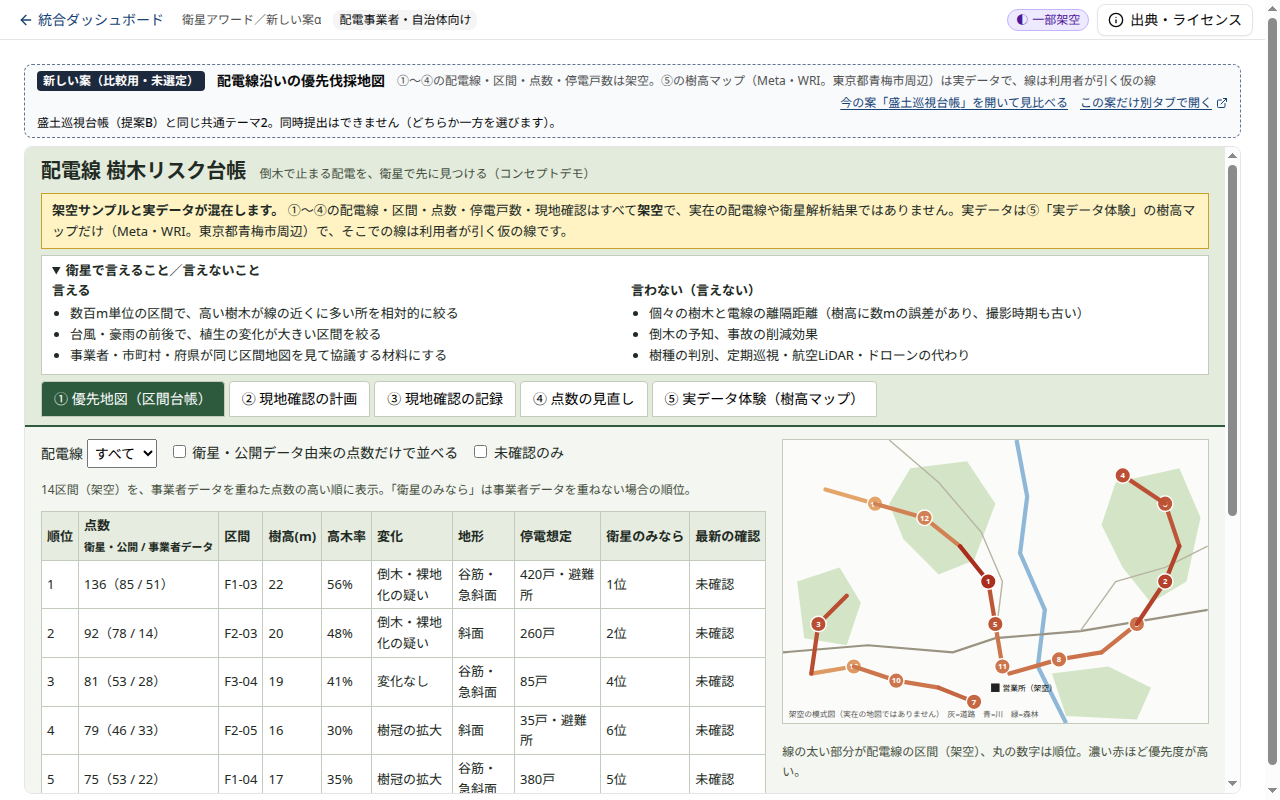
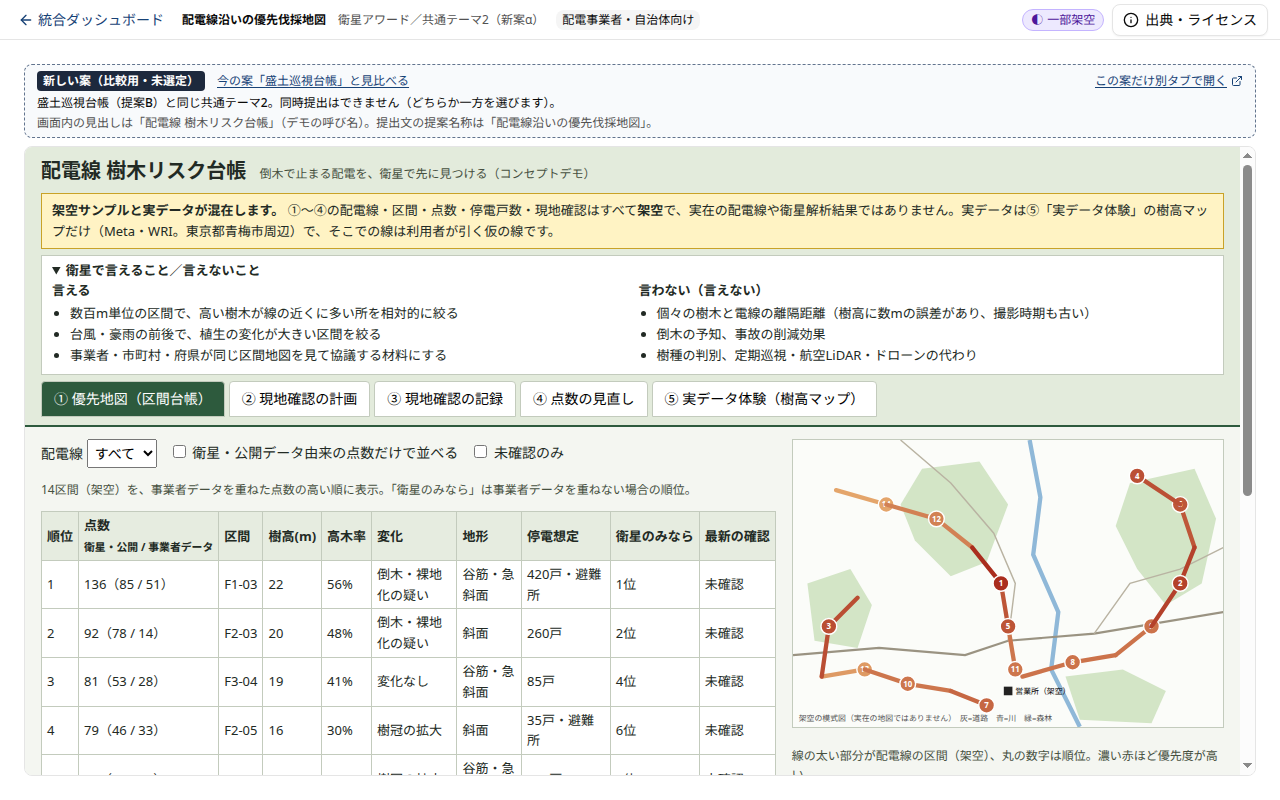
工兵: ダッシュボードのデザイン審査指摘 M1〜M6・L1〜L3・L6 に対応（定時性カルテの状態の明記、IN1の題名と提出文リンク、双方向の見比べリンク、帯の整理、スマホの入れ子スクロール解消、新しい案の件数表示）

diff --git a/contests/dashboard/src/pages/Overview.tsx b/contests/dashboard/src/pages/Overview.tsx
@@ -7,6 +7,7 @@ import { Card, CardContent, CardDescription, CardFooter, CardHeader, CardTitle }
 import { Tabs, TabsContent, TabsList, TabsTrigger } from '@/components/ui/tabs'
 import { DataBadge } from '@/components/shared/DataBadge'
 import { APPS, CARDS_ONLY, CONTESTS, NEW_PLAN_LABEL, appsByContest, getApp, isNewPlan, type AppMeta, type CardOnly, type ContestId } from '@/apps/registry'
+import { siteRoot } from '@/lib/data'
 import { CONTEST_INFO, remainingText, type ContestInfo } from '@/apps/contests-info'
 import { AppScoreLine, EvalSummary, MOCK_NOTICE, ROUND_NOTICE } from '@/pages/EvalPanels'
 import { LATEST } from '@/apps/eval-results'
@@ -52,7 +53,7 @@ function CardOnlyCard({ c }: { c: CardOnly }) {
           <NewPlanTag />
           <span className="rounded border border-slate-500 px-1.5 py-0.5 text-xs font-bold">デモなし</span>
         </div>
-        <CardTitle className="text-base leading-tight">{c.name}</CardTitle>
+        <CardTitle className="text-base leading-tight" data-testid={`card-only-title-${c.id}`}>{c.name}</CardTitle>
         <CardDescription className="text-xs">
           {contest?.short}／{c.division}
         </CardDescription>
@@ -60,6 +61,22 @@ function CardOnlyCard({ c }: { c: CardOnly }) {
       <CardContent className="flex-1 px-4 text-xs">
         <p data-testid={`card-only-note-${c.id}`}>{c.note}</p>
       </CardContent>
+      <CardFooter className="flex-wrap gap-x-4 gap-y-1 px-4 text-xs">
+        {c.docs.map((d) => (
+          <a
+            key={d.path}
+            href={`${siteRoot()}${d.path}`}
+            target="_blank"
+            rel="noreferrer"
+            className="inline-flex items-center gap-1 font-medium text-primary underline underline-offset-2"
+            data-testid={`card-only-doc-${c.id}`}
+          >
+            {d.label}
+            <ExternalLink className="size-3" aria-hidden />
+            <span className="sr-only">（新しいタブで開く）</span>
+          </a>
+        ))}
+      </CardFooter>
     </Card>
   )
 }
@@ -95,6 +112,11 @@ function AppCard({ a, contestId, note, onOpenEval, paired }: { a: AppMeta; conte
         {isNew && a.pairNote && (
           <p className="mt-1.5 border-l-2 border-slate-500 pl-2 font-medium" data-testid={`pair-note-${a.id}`}>
             {a.pairNote}
+          </p>
+        )}
+        {isNew && a.stateNote && (
+          <p className="mt-1.5 border-l-2 border-slate-500 pl-2 font-medium" data-testid={`state-note-${a.id}`}>
+            いまの状態: {a.stateNote}
           </p>
         )}
         {isNew && (
@@ -166,11 +188,16 @@ function ContestPanel({ info, onOpenEval }: { info: ContestInfo; onOpenEval: () 
   const current = apps.filter((a) => !isNewPlan(a))
   const newCount = apps.length - current.length + CARDS_ONLY.filter((c) => c.contest === info.id).length
   // 今の案ごとに、その隣に新しい案を並べる（同じ大会・部門の中で比べる）
-  const groups = current.map((a) => ({
-    head: a,
-    news: apps.filter((x) => isNewPlan(x) && x.pairWith === a.id),
-    cards: CARDS_ONLY.filter((c) => c.contest === info.id && c.pairWith === a.id),
-  }))
+  // 組のある群を先に並べる（第一画面に、今の案と新しい案の組が入るように）
+  const groups = current
+    .map((a) => ({
+      head: a,
+      news: apps.filter((x) => isNewPlan(x) && x.pairWith === a.id),
+      cards: CARDS_ONLY.filter((c) => c.contest === info.id && c.pairWith === a.id),
+    }))
+    .sort((x, y) => Number(y.news.length + y.cards.length > 0) - Number(x.news.length + x.cards.length > 0))
+  // 新しい案があるコンペでは、今の案すべてに「今の案」の札を付ける
+  const hasNew = newCount > 0
   return (
     <div className="space-y-3">
       <div className="grid items-start gap-3 lg:grid-cols-[3fr_2fr] lg:grid-rows-[auto_1fr]">
@@ -239,13 +266,20 @@ function ContestPanel({ info, onOpenEval }: { info: ContestInfo; onOpenEval: () 
             </span>
           </h3>
           {groups.map((g) => (
-            <div key={g.head.id} className="grid gap-3 sm:grid-cols-2" data-testid={`group-${g.head.id}`}>
-              {[g.head, ...g.news].map((a) => (
-                <AppCard key={a.id} a={a} contestId={info.id} note={info.appNotes?.[a.id]} onOpenEval={onOpenEval} paired={g.news.length + g.cards.length > 0} />
-              ))}
-              {g.cards.map((c) => (
-                <CardOnlyCard key={c.id} c={c} />
-              ))}
+            <div key={g.head.id} className={hasNew && groups.length > 1 ? 'space-y-1 pt-2' : ''} data-testid={`group-${g.head.id}`}>
+              {hasNew && groups.length > 1 && (
+                <h4 className="text-xs font-bold text-muted-foreground" data-testid={`group-title-${g.head.id}`}>
+                  {g.head.division}
+                </h4>
+              )}
+              <div className="grid gap-3 sm:grid-cols-2">
+                {[g.head, ...g.news].map((a) => (
+                  <AppCard key={a.id} a={a} contestId={info.id} note={info.appNotes?.[a.id]} onOpenEval={onOpenEval} paired={hasNew} />
+                ))}
+                {g.cards.map((c) => (
+                  <CardOnlyCard key={c.id} c={c} />
+                ))}
+              </div>
             </div>
           ))}
           {info.alsoApps?.map((x) => {
@@ -339,7 +373,13 @@ export default function Overview() {
                       {d === nd && <Remaining at={d.at} />}
                     </span>
                   ))}
-                  <span className="hidden text-muted-foreground lg:inline">アプリ{appsByContest(info.id).filter((a) => !isNewPlan(a)).length}件</span>
+                  <span className="hidden text-muted-foreground lg:inline" data-testid={`tab-count-${info.id}`}>
+                    アプリ{appsByContest(info.id).filter((a) => !isNewPlan(a)).length}件
+                    {(() => {
+                      const n = appsByContest(info.id).filter(isNewPlan).length + CARDS_ONLY.filter((c) => c.contest === info.id).length
+                      return n > 0 ? `＋新しい案${n}件` : ''
+                    })()}
+                  </span>
                 </span>
               </TabsTrigger>
             )

diff --git a/contests/dashboard/src/apps/registry.ts b/contests/dashboard/src/apps/registry.ts
@@ -36,6 +36,10 @@ export interface AppMeta {
   pairNote?: string
   /** 元の静的版を iframe で開くアプリの、同梱コピーのフォルダ（public/embedded/<embed>/）。省略時は React 版 */
   embed?: string
+  /** 今の状態（データがまだ無い等）。新しい案のカードと帯に出す。数値は書かない */
+  stateNote?: string
+  /** 元の静的版の画面内の見出しが registry の name と違うときの、その見出し（帯に1行で添える） */
+  demoTitle?: string
 }
 
 /** 提出文のみで、デモを持たない案（ポータルに「カードだけ」置く。クリックできるデモはない） */
@@ -45,8 +49,10 @@ export interface CardOnly {
   contest: ContestId
   division: string
   pairWith: string
-  /** カードの本文（何がまだ無いか） */
+  /** カードの本文（何の案か・何がまだ無いか） */
   note: string
+  /** 提出文を読むリンク（サイトルートからの相対パス。copy-data が submission/ の md を .txt にして置く） */
+  docs: { label: string; path: string }[]
 }
 
 export const NEW_PLAN_LABEL = '新しい案（比較用・未選定）'
@@ -166,7 +172,8 @@ export const APPS: AppMeta[] = [
     audience: '配電事業者・自治体向け',
     name: '配電線沿いの優先伐採地図',
     contest: 'satellite-2026',
-    division: '新しい案α',
+    division: '共通テーマ2（新案α）',
+    demoTitle: '配電線 樹木リスク台帳',
     deadline: '2026/11/30 12:00',
     deadlineAt: '2026-11-30T12:00:00+09:00',
     purpose:
@@ -224,6 +231,8 @@ export const APPS: AppMeta[] = [
       'バスの位置データ（GTFS-RT）を時刻表と突き合わせ、どの路線の・どの時間帯の・どの区間で遅れるかを見える化し、ダイヤや運用の見直し材料にする。',
     dataKind: 'real',
     dataNote: '公共交通オープンデータセンターの実データ（CC BY 4.0）。収集の途中で、昼間の品質は未測定',
+    stateNote:
+      'いまはデータを貯め始めたところで、まだ遅れの集計はありません（開くと全事業者が「データ蓄積前」と表示されます）。昼間の収集を 11/13 の 11:00〜12:00 に予定していますが、結果は未確定です。',
     originalPath: 'contests/odpt-2026/app-teiji/web/',
   },
 ]
@@ -231,11 +240,15 @@ export const APPS: AppMeta[] = [
 export const CARDS_ONLY: CardOnly[] = [
   {
     id: 'biz-idea-in1',
-    name: 'IN1',
+    name: '「いま使えるAED」地図　夜間・施錠で使えない場所を、時間帯別のカバー率にする',
     contest: 'ichibiz-2026',
     division: 'アイデア部門（新案IN1）',
     pairWith: 'biz-idea',
-    note: '提出文のみ。デモは UDC の「夜間・休日に使えるAED地図」を使う予定（準備中）。',
+    note: 'AEDの地図は公開されていても、点は「いつ使えるか」を示さない。町田市の公開データでは、位置と利用時間が記入された288台のうち、平日午前3時に使えるのは14台（本案の簡易判定）。提出文のみで、デモは UDC の「夜間・休日に使えるAED地図」を使う予定（準備中）。',
+    docs: [
+      { label: '課題の文を読む', path: 'submission/idea-in1/problem.txt' },
+      { label: 'サービス内容の文を読む', path: 'submission/idea-in1/service.txt' },
+    ],
   },
 ]
 
@@ -267,3 +280,8 @@ export function isNewPlan(a: AppMeta): boolean {
 
 /** 今の案のアプリ（評価・既存テストの対象） */
 export const CURRENT_APPS: AppMeta[] = APPS.filter((a) => !isNewPlan(a))
+
+/** 今の案 id から、その隣に並ぶ新しい案を引く（今の案のヘッダーに「見比べる」リンクを出すため） */
+export function newPlansOf(currentId: string): AppMeta[] {
+  return APPS.filter((a) => isNewPlan(a) && a.pairWith === currentId)
+}

diff --git a/contests/dashboard/src/apps/embedded/EmbeddedApp.tsx b/contests/dashboard/src/apps/embedded/EmbeddedApp.tsx
@@ -15,7 +15,8 @@ export function EmbeddedApp({ appId }: { appId: string }) {
   const pair = app.pairWith ? getApp(app.pairWith) : undefined
   const src = `${siteRoot()}embedded/${app.embed}/index.html`
   return (
-    <div className="flex flex-col gap-2" data-testid="embedded-app">
+    // 高さ = 画面の高さ − 固定ヘッダー − main の余白。iframe が残りを埋め、ページ全体の縦スクロールを出さない（iframe の末尾が必ず画面内に入る）
+    <div className="flex h-[calc(100dvh-8.5rem)] flex-col gap-2 md:h-[calc(100dvh-5.5rem)]" data-testid="embedded-app">
       <PageHeader
         appId={appId}
         compact
@@ -30,30 +31,44 @@ export function EmbeddedApp({ appId }: { appId: string }) {
           />
         }
       />
-      <div className="flex flex-wrap items-center gap-x-3 gap-y-1 rounded-md border border-dashed border-slate-500 bg-slate-50 px-3 py-1.5 text-xs">
+      {/* 案の名前は上のヘッダー（スマホは名前、デスクトップは名前＋部門）に出す。帯は札とリンクと、比べるときの制約・今の状態だけ */}
+      <h1 className="sr-only">{app.name}</h1>
+      <div className="flex shrink-0 flex-wrap items-center gap-x-3 gap-y-1 rounded-md border border-dashed border-slate-500 bg-slate-50 px-3 py-1.5 text-xs">
         <span className="rounded bg-slate-800 px-1.5 py-0.5 font-bold text-white" data-testid="new-plan-badge">
           {NEW_PLAN_LABEL}
         </span>
-        <h1 className="text-sm font-bold">{app.name}</h1>
-        <span className="text-muted-foreground">{app.dataNote}</span>
-        <span className="ml-auto flex flex-wrap items-center gap-3">
-          {pair && (
-            <a href={appUrl(pair.id)} className="font-medium text-primary underline underline-offset-2">
-              今の案「{pair.name}」を開いて見比べる
-            </a>
-          )}
-          <a href={src} target="_blank" rel="noreferrer" className="inline-flex items-center gap-1 font-medium text-primary underline underline-offset-2">
-            この案だけ別タブで開く
-            <ExternalLink className="size-3" aria-hidden />
-            <span className="sr-only">（新しいタブで開く）</span>
+        {pair && (
+          <a href={appUrl(pair.id)} className="font-medium text-primary underline underline-offset-2" data-testid="pair-link">
+            今の案「{pair.name}」と見比べる
           </a>
-        </span>
+        )}
+        <a
+          href={src}
+          target="_blank"
+          rel="noreferrer"
+          className="ml-auto inline-flex items-center gap-1 font-medium text-primary underline underline-offset-2 max-sm:rounded-md max-sm:border max-sm:border-primary max-sm:px-2 max-sm:py-1"
+          data-testid="open-alone"
+        >
+          この案だけ別タブで開く
+          <ExternalLink className="size-3" aria-hidden />
+          <span className="sr-only">（新しいタブで開く）</span>
+        </a>
         {app.pairNote && <p className="basis-full font-medium">{app.pairNote}</p>}
+        {app.stateNote && (
+          <p className="basis-full font-medium" data-testid="band-state-note">
+            いまの状態: {app.stateNote}
+          </p>
+        )}
+        {app.demoTitle && (
+          <p className="basis-full text-muted-foreground" data-testid="band-demo-title">
+            画面内の見出しは「{app.demoTitle}」（デモの呼び名）。提出文の提案名称は「{app.name}」。
+          </p>
+        )}
       </div>
       <iframe
         title={`${app.name}（${NEW_PLAN_LABEL}）`}
         src={src}
-        className="h-[calc(100dvh-9.5rem)] min-h-[600px] w-full rounded-md border bg-white"
+        className="min-h-[420px] w-full flex-1 rounded-md border bg-white"
         data-testid="embedded-frame"
       />
     </div>

diff --git a/contests/dashboard/src/components/layout/StandaloneShell.tsx b/contests/dashboard/src/components/layout/StandaloneShell.tsx
@@ -4,8 +4,8 @@ import { TooltipProvider } from '@/components/ui/tooltip'
 import { Toaster } from '@/components/ui/sonner'
 import { AppStepsProvider, useRegisteredSteps } from '@/components/shared/AppSteps'
 import { HeaderSlotContext } from '@/components/shared/HeaderSlot'
-import { CONTESTS, getApp } from '@/apps/registry'
-import { portalUrl } from '@/lib/data'
+import { CONTESTS, getApp, newPlansOf } from '@/apps/registry'
+import { appUrl, portalUrl } from '@/lib/data'
 import { StepsSidebar, StepsTopbar } from './StepsPanel'
 import { SampleBar, sampleUrl } from './SampleBar'
 import { AppIdContext } from '@/components/shared/AppIdContext'
@@ -50,6 +50,7 @@ function ShellBody({ appId, children }: { appId: string; children: ReactNode }) 
             </a>
             <span className="min-w-0 flex-1 truncate text-xs font-semibold md:hidden">{app?.name}</span>
             <span className="hidden truncate text-xs text-muted-foreground md:inline">
+              {app?.embed && <span className="font-semibold text-foreground">{app.name}　</span>}
               {contest?.short}／{app?.division}
             </span>
             {app && <span className="hidden shrink-0 rounded-md bg-muted px-1.5 py-0.5 text-xs font-medium sm:inline">{app.audience}</span>}
@@ -62,6 +63,16 @@ function ShellBody({ appId, children }: { appId: string; children: ReactNode }) 
                 実行サンプルを見る
               </a>
             )}
+            {newPlansOf(appId).map((n) => (
+              <a
+                key={n.id}
+                href={appUrl(n.id)}
+                data-testid="compare-new-link"
+                className="shrink-0 rounded-md px-1.5 py-0.5 text-xs font-medium text-primary underline underline-offset-2 hover:bg-accent"
+              >
+                新しい案「{n.name}」と見比べる
+              </a>
+            ))}
             <div ref={setSlot} className="flex min-w-0 flex-wrap items-center gap-2 max-md:basis-full md:ml-auto md:flex-nowrap" />
           </header>
           <StepsTopbar />

diff --git a/contests/dashboard/src/test/shared.test.ts b/contests/dashboard/src/test/shared.test.ts
@@ -5,7 +5,7 @@ import { parseHashQuery, withHashQuery } from '@/components/shared/hashState'
 import { useLocalStorage } from '@/components/shared/useLocalStorage'
 import { useHashState } from '@/components/shared/useHashState'
 import { GSI_BASEMAPS, buildStyle, type BasemapId } from '@/components/shared/mapStyle'
-import { APPS, CARDS_ONLY, CURRENT_APPS, appsByContest, getApp, isNewPlan } from '@/apps/registry'
+import { APPS, CARDS_ONLY, CURRENT_APPS, appsByContest, getApp, isNewPlan, newPlansOf } from '@/apps/registry'
 
 describe('toCsv', () => {
   it('BOM付きで、カンマ・引用符・改行をエスケープする', () => {
@@ -73,6 +73,13 @@ describe('mapStyle / registry', () => {
     for (const c of CARDS_ONLY) {
       const pair = getApp(c.pairWith)
       expect(pair?.contest).toBe(c.contest)
+      expect(c.docs.length).toBeGreaterThan(0)
     }
+  })
+  it('今の案から新しい案を引ける（見比べるリンク用）。ODPT 定時性カルテの状態の文に数値を書かない', () => {
+    expect(newPlansOf('sat-b').map((a) => a.id)).toEqual(['sat-alpha'])
+    expect(newPlansOf('sat-a')).toEqual([])
+    expect(getApp('odpt-teiji')?.stateNote).toMatch(/まだ遅れの集計はありません/)
+    expect(getApp('odpt-teiji')?.stateNote).not.toMatch(/\d+\s*(便|件|%|％)/)
   })
 })
